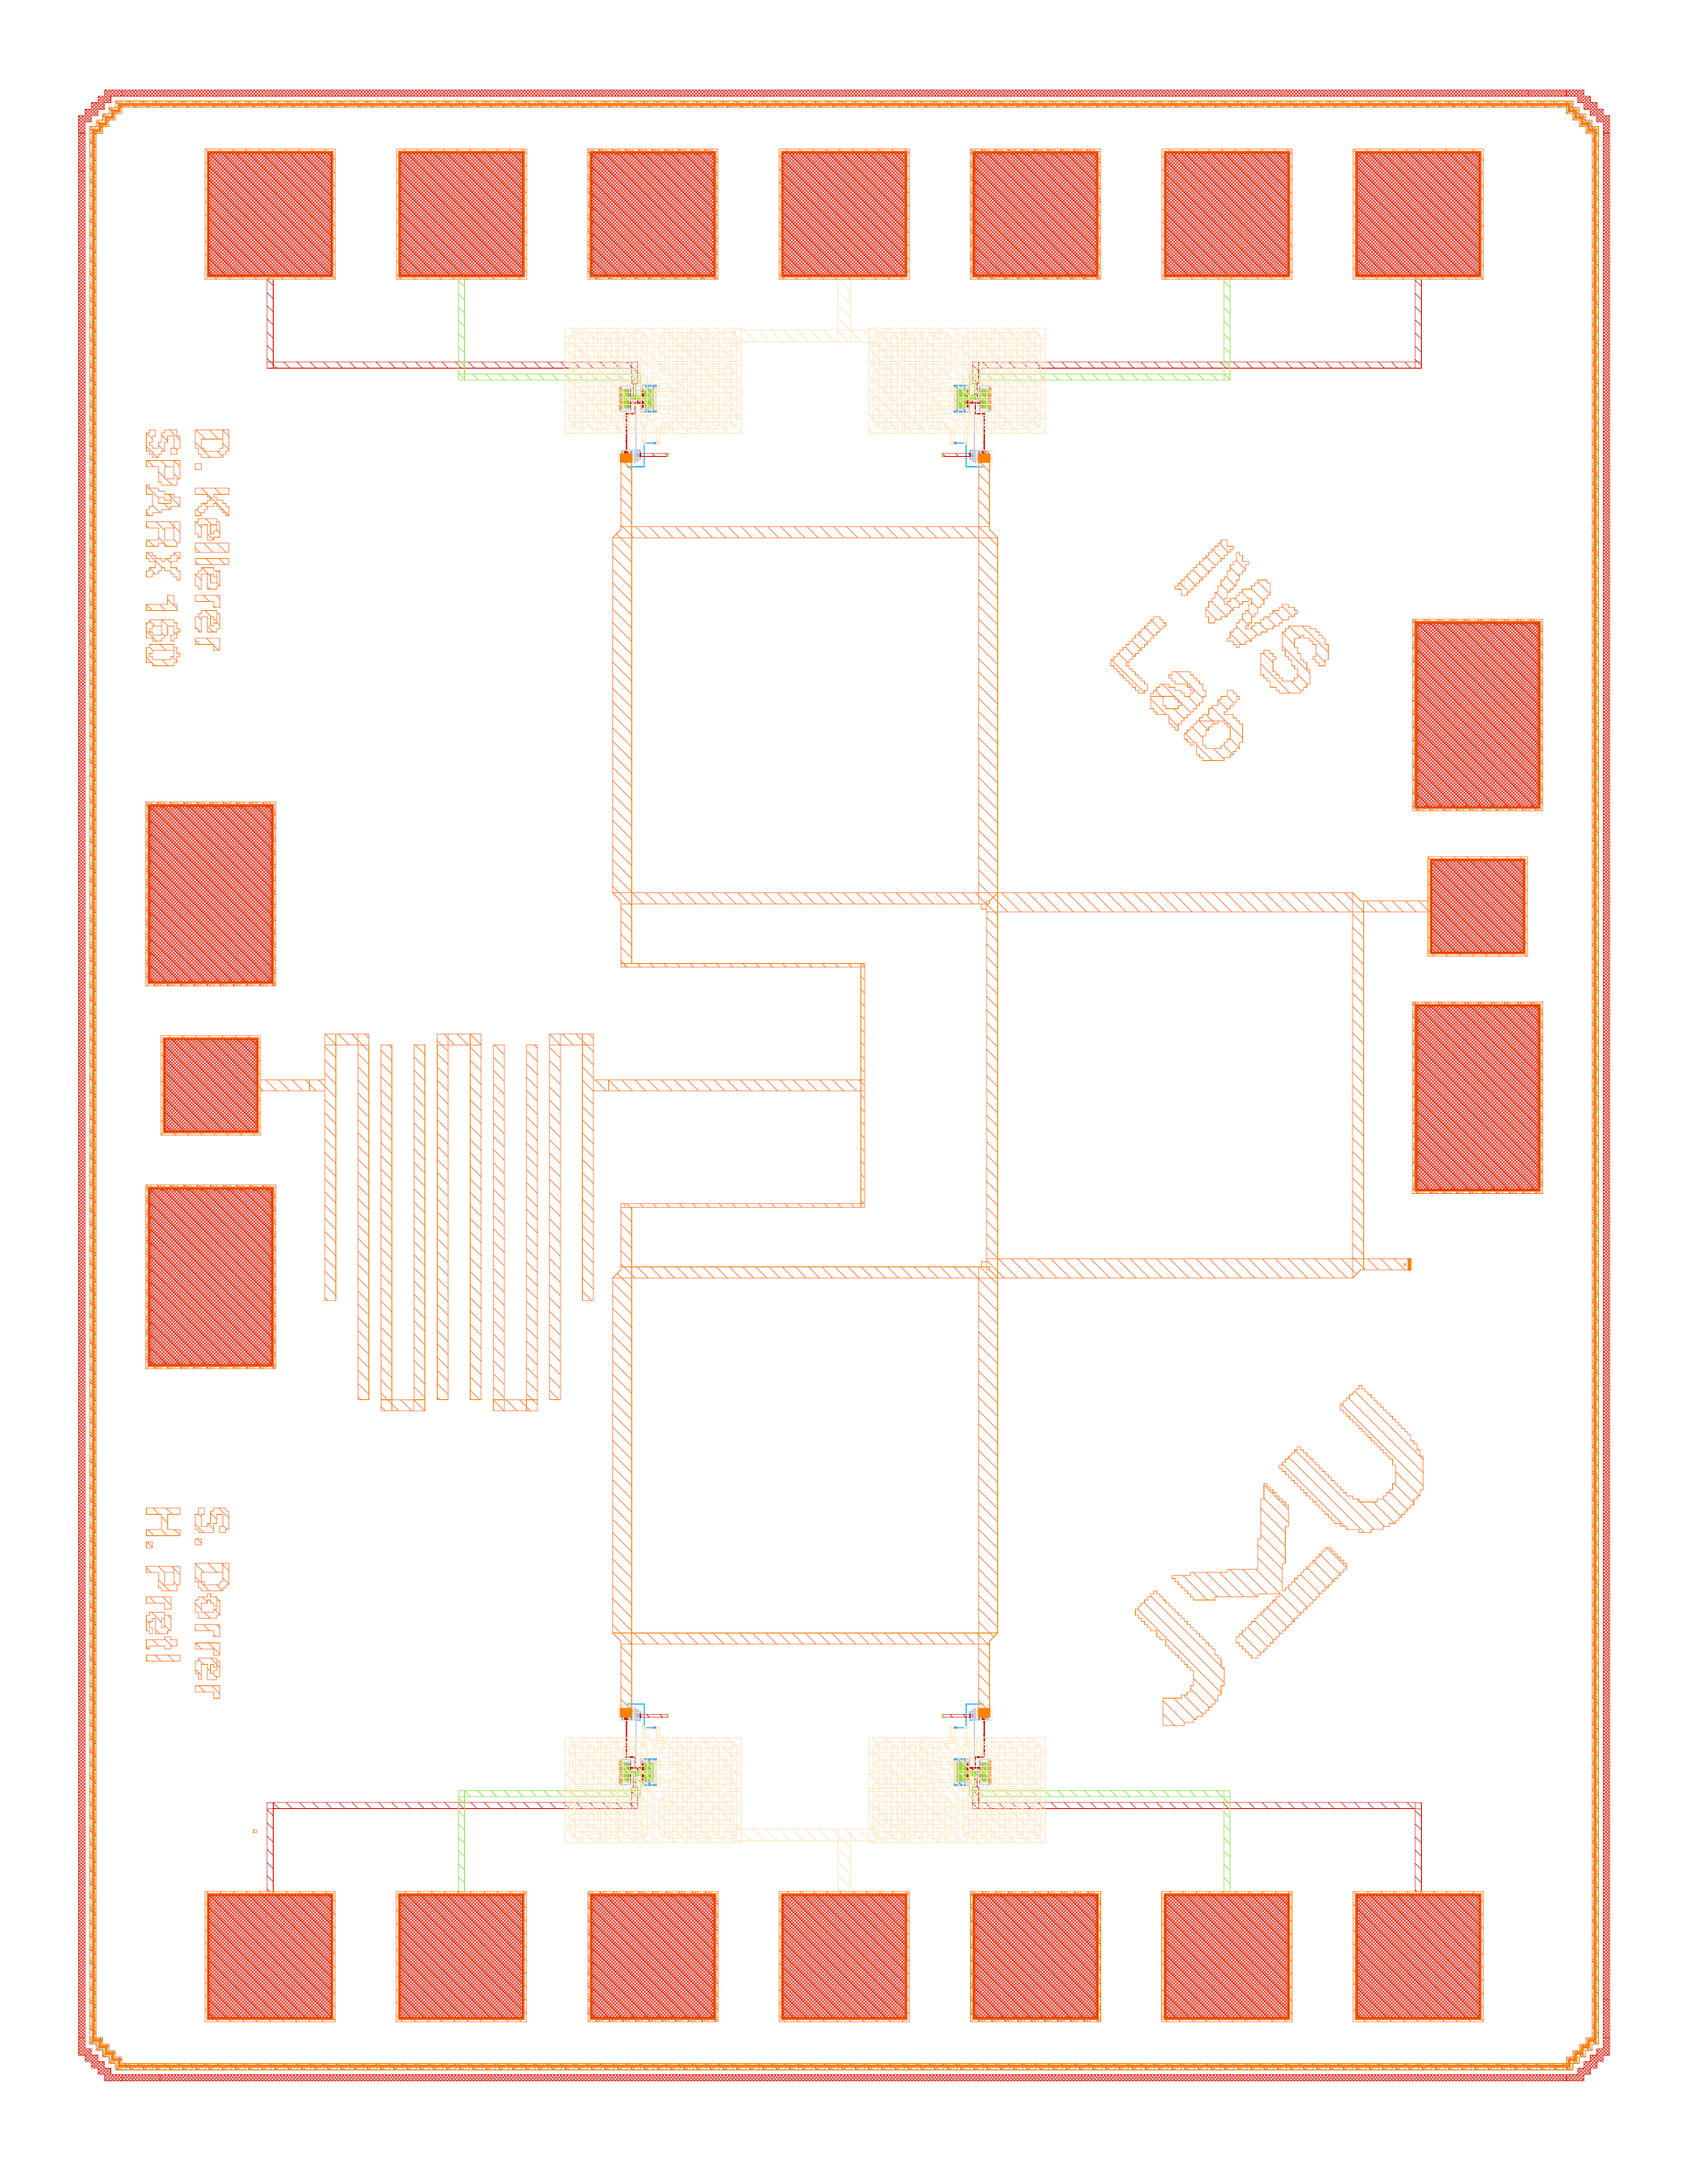
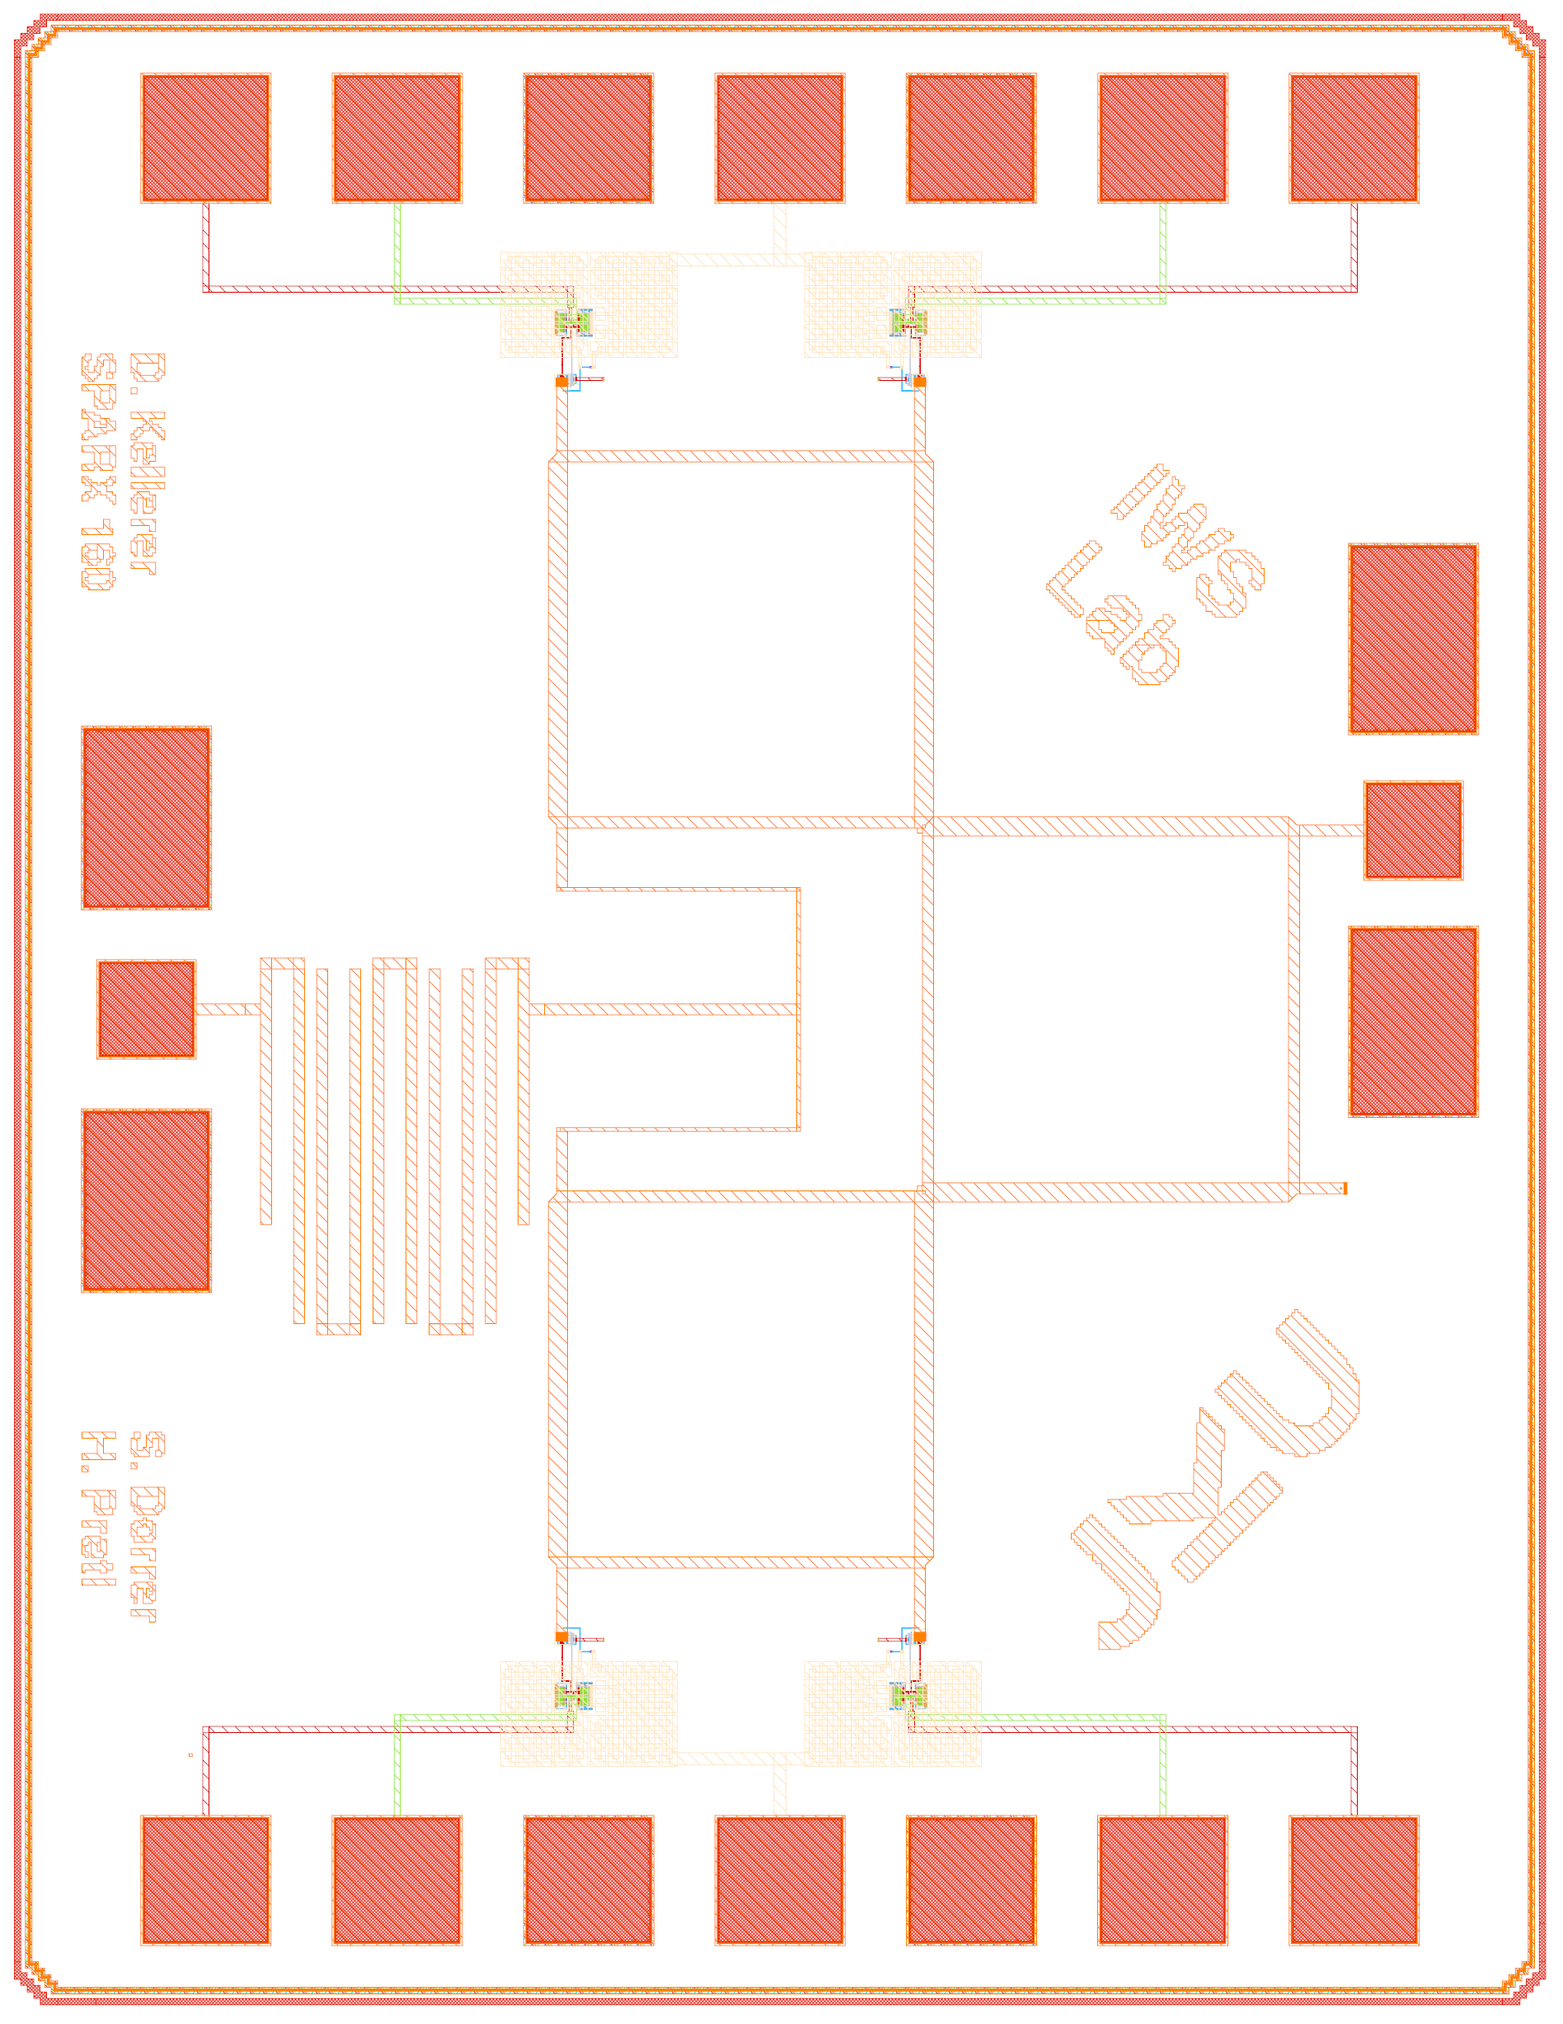
updated README.md with image wo M5 GND plane

Changed region(s): [[0.0, 0.0, 0.9958, 0.9906], [0.6535, 0.2477, 0.8091, 0.3405]]

diff --git a/README.md b/README.md
@@ -3,11 +3,11 @@
 (c) 2025-2026 David Kellerer-Pirklbauer, Simon Dorrer and Harald Pretl
 
 <p align="center">
-  <a href="img/sparx160_top_white.png">
-    <img src="img/sparx160_top_white.png" alt="IHP Open-PDK Render of the Six-Port Receiver" width=70%>
+  <a href="img/sparx160_top_white_wo_M5.png">
+    <img src="img/sparx160_top_white_wo_M5.png" alt="Render of the Six-Port Receiver without M5 GND plane" width=70%>
   </a>
   <br>
-  <em>IHP Open-PDK Render of the Six-Port Receiver</em>
+  <em>Render of the Six-Port Receiver without M5 GND plane.</em>
 </p>
 
 ---
@@ -30,7 +30,7 @@
     <img src="doc/sparx160_blockdiagram.png" alt="Block Diagram of the Six-Port Receiver" width=70%>
   </a>
   <br>
-  <em>Block Diagram of the Six-Port Receiver</em>
+  <em>Block Diagram of the Six-Port Receiver.</em>
 </p>
 
 ---
